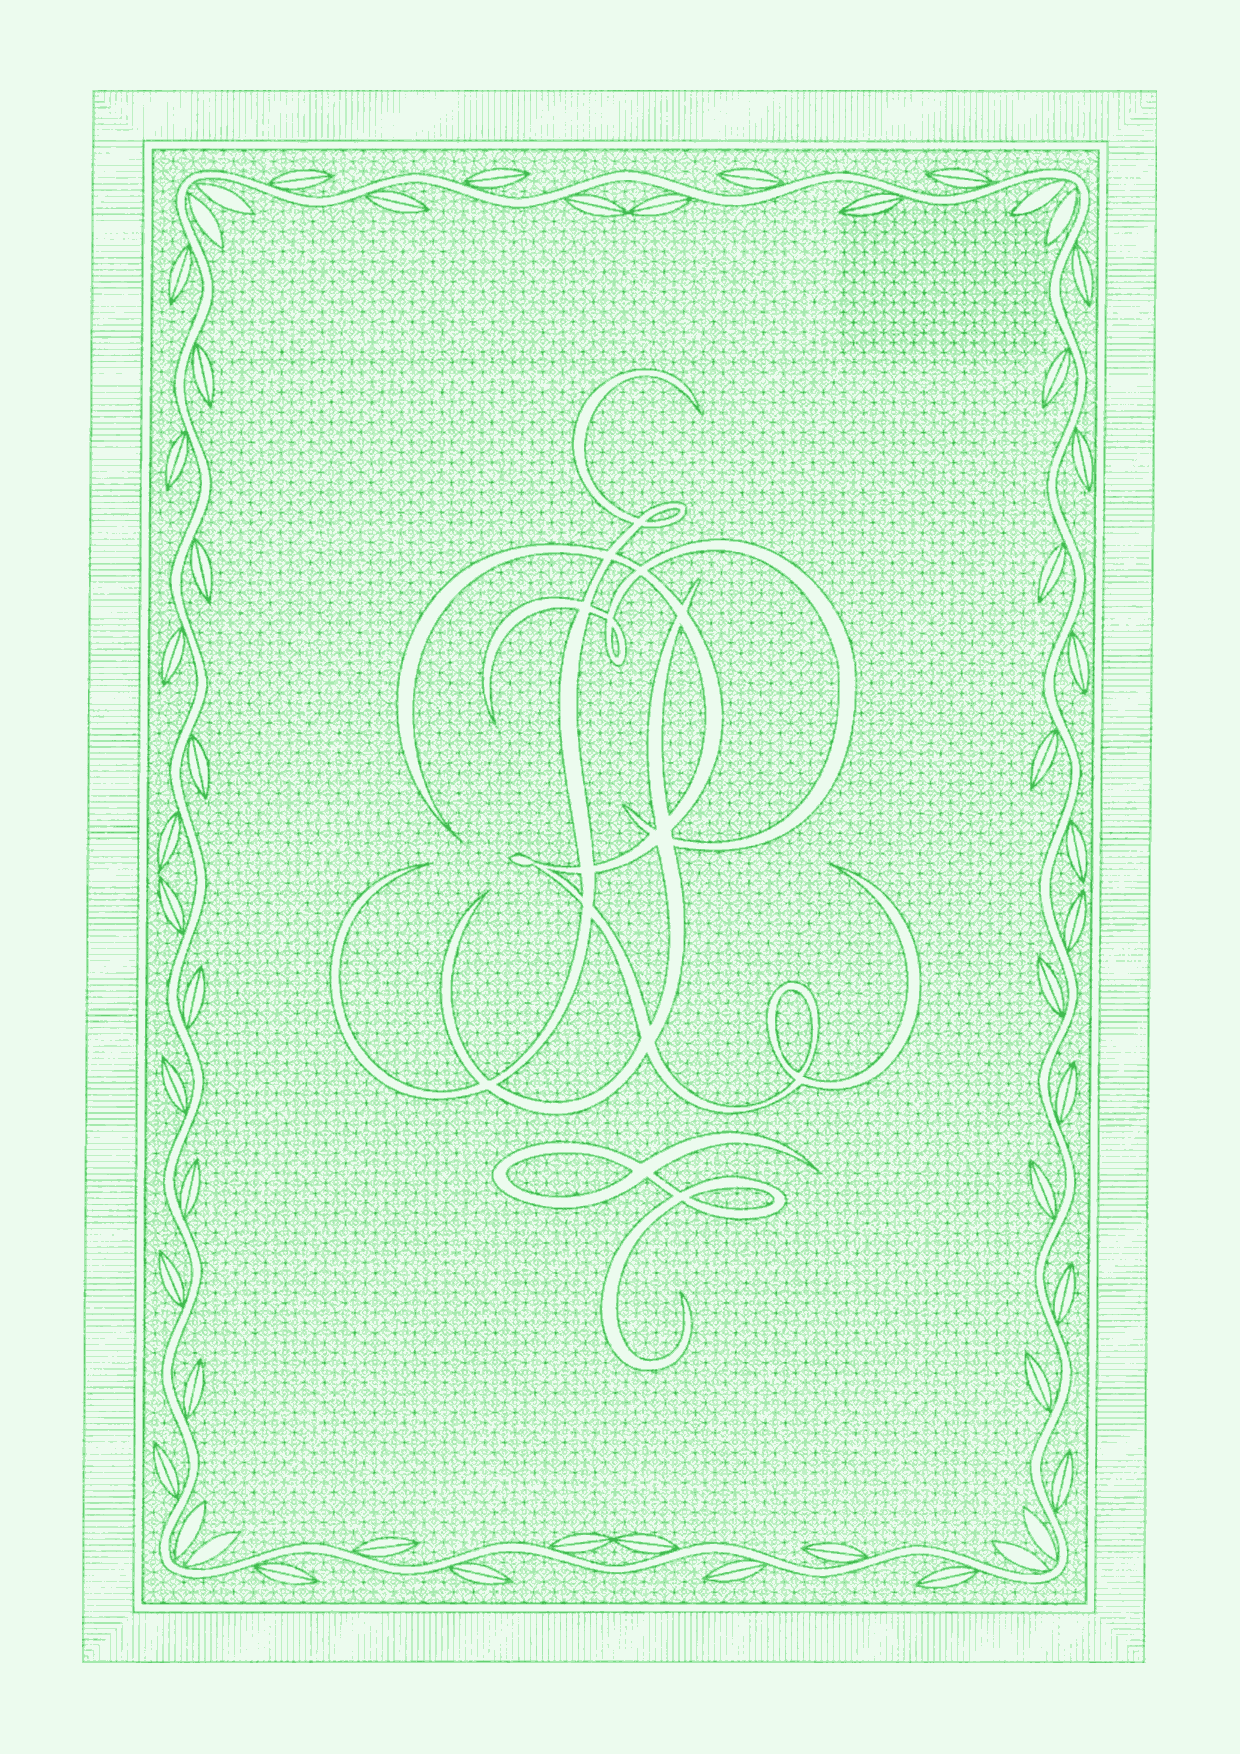
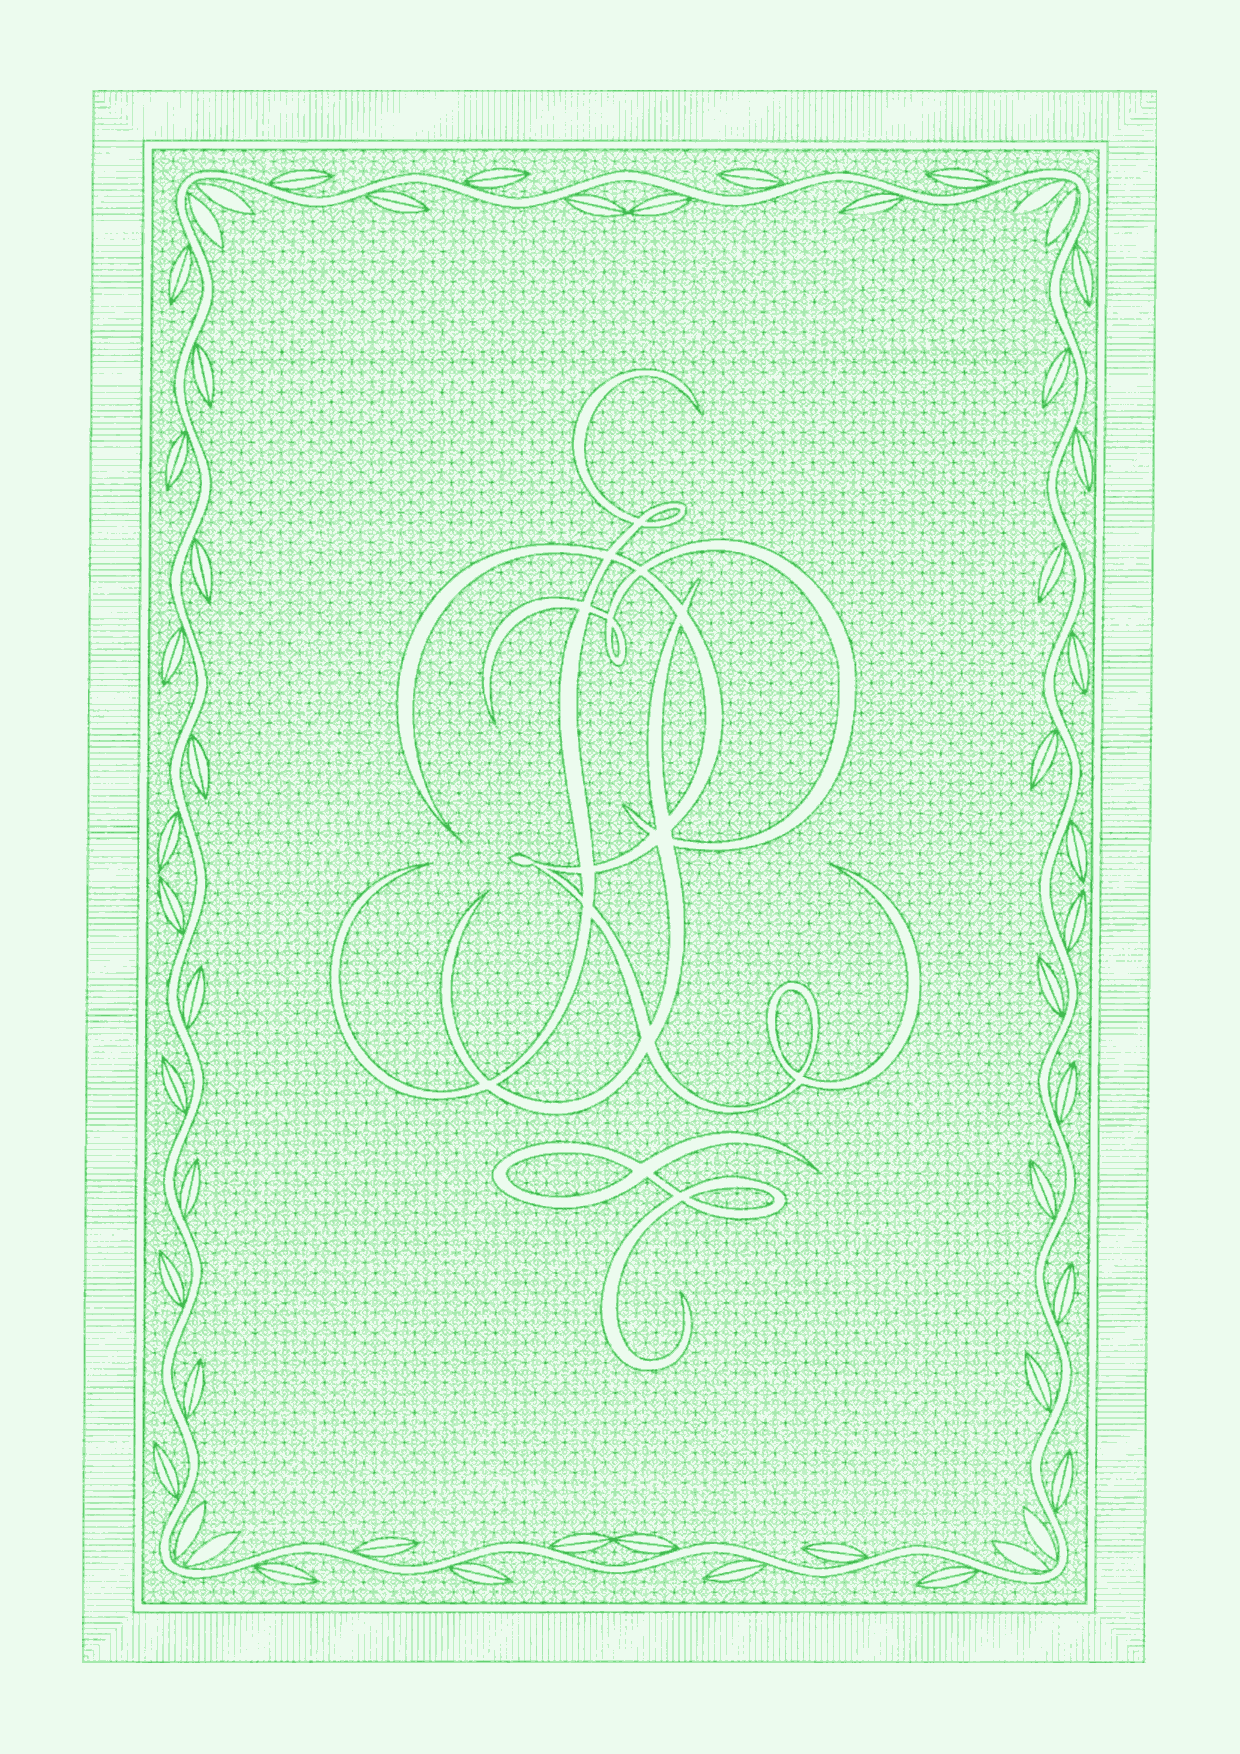
Remove the seam left by the flag patch and clear the table header
The flag was painted over with the same area taken from the back page,
but the two scans hold the lattice in a slightly different phase, so the
patch left a visible rectangle. The cover now comes from the front page
itself, moved down by ten lattice periods - the period measured 27px by
autocorrelation - so the pattern lines up to the pixel. The source area
was picked by scoring candidates for flatness after a heavy blur: plain
lattice stays even, while a vine or the monogram shows up as variation.

The programme table header carried a grey fill that hid the guilloche
behind it. The rule is scoped to .cert-back, which only exists on a sheet
that has the pattern, so printouts without it keep the table they had.

Changed region(s): [[0.6742, 0.0924, 0.8581, 0.2155]]

diff --git a/api/internal/certificates/pdf.go b/api/internal/certificates/pdf.go
@@ -330,6 +330,13 @@ func buildCertificatePDFHTML(certificate sqlc.GetCertificateByIDRow, verificatio
     th {
       background: #f8fafc;
     }
+
+    /* Na blankiecie nagłówek tabeli nie może mieć wypełnienia - szary pasek zakryłby
+       gilosz pod spodem. Reguła dotyczy tylko odwrotu z tłem, więc wydruki bez wzoru
+       zachowują dotychczasowy wygląd tabeli. */
+    .cert-back th {
+      background: transparent;
+    }
   </style>
 </head>
 <body>` + front + back + `</body>
